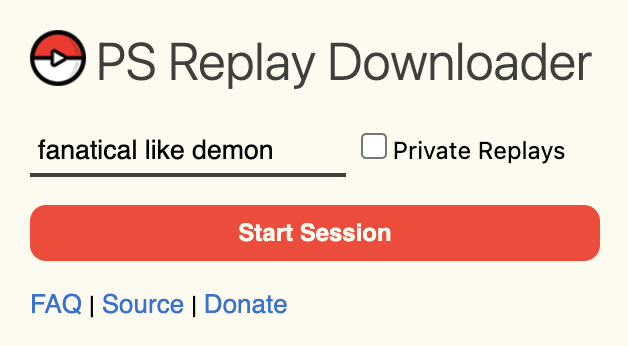
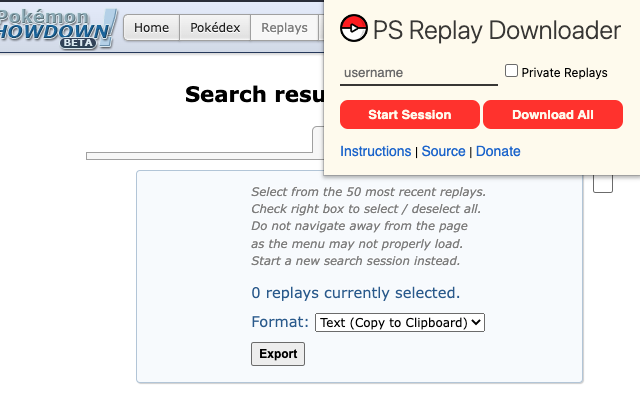
Add feature for downloading all replays in one-click

diff --git a/popup.js b/popup.js
@@ -1,22 +1,70 @@
 const PS_REPLAY_SEARCH_BASE_URL =
     "https://replay.pokemonshowdown.com/search/?user=";
-// Identifer for PsReplayDownloader-specific storage keys
+const PS_REPLAY_SEARCH_API_URL =
+    "https://replay.pokemonshowdown.com/search.json?user=";
+const PS_REPLAY_BASE_URL = "https://replay.pokemonshowdown.com/";
+const ACCESS_DENIED_ERR = "ERROR: access denied";
 
 // Open replay search session for user given username and private replay option
 function startSession() {
-    // Get username field input
     const username = document.getElementById("usernameField").value;
-    // Check if replays requested are private
     const privateOption = document.getElementById("privateCheckbox").checked;
-    // Open session in new tab
     const replayUrl = PS_REPLAY_SEARCH_BASE_URL + username;
+    // Open session in new tab
     window.open(privateOption ? replayUrl + "&private" : replayUrl);
+}
+
+async function getAllReplays() {
+    const username = document.getElementById("usernameField").value;
+    const privateOption = document.getElementById("privateCheckbox").checked;
+    const replayUrl = PS_REPLAY_SEARCH_API_URL + username;
+    // Make GET request to replay server
+    let getReplaysResponse = await fetch(
+        privateOption ? replayUrl + "&private" : replayUrl
+    );
+    if (getReplaysResponse.ok) {
+        // Response can be either object or string unfortunately
+        let replaysJson = await getReplaysResponse.json();
+        // Handle error for private replay permissions
+        if (replaysJson == ACCESS_DENIED_ERR) {
+            alert(`Log in to access private replays for '${username}'.`);
+        } else if (replaysJson === undefined || replaysJson.length == 0) {
+            alert(`Cannot find replays for '${username}.`);
+        } else {
+            console.log(`Exporting ${replaysJson.length} replays...`);
+            exportReplaysToCsv(replaysJson, privateOption);
+        }
+    } else {
+        alert(
+            "Network Error, please try again later." + getReplaysResponse.status
+        );
+    }
+}
+
+function exportReplaysToCsv(replaysJson, privateOption) {
+    console.log(replaysJson);
+    var replayList = [["replay_url"]];
+    replaysJson.forEach(function (replay) {
+        replayList.push([
+            privateOption
+                ? PS_REPLAY_BASE_URL + replay.id + "pw"
+                : PS_REPLAY_BASE_URL + replay.id,
+        ]);
+    });
+    let csvContent =
+        "data:text/csv;charset=utf-8," +
+        replayList.map((e) => e.join(",")).join("\n");
+    const encodedUri = encodeURI(csvContent);
+    window.open(encodedUri);
 }
 
 function initListeners() {
     document
         .getElementById("startSessionBtn")
         .addEventListener("click", startSession);
+    document
+        .getElementById("downloadAllBtn")
+        .addEventListener("click", getAllReplays);
 }
 
 initListeners();

diff --git a/content.js b/content.js
@@ -52,7 +52,7 @@ function addExportMenu() {
             <p style="margin-top:10px;margin-bottom:2px;font-size:80%;font-style:italic;color:#888888">Select from the 50 most recent replays.</p>
             <p style="margin-top:2px;margin-bottom:2px;font-size:80%;font-style:italic;color:#888888">Check right box to select / deselect all.</p>
             <p style="margin-top:2px;margin-bottom:2px;font-size:80%;font-style:italic;color:#888888">Do not navigate away from the page</p>
-            <p style="margin-top:2px;margin-bottom:2px;font-size:80%;font-style:italic;color:#888888">as the menu may not load.</p>
+            <p style="margin-top:2px;margin-bottom:2px;font-size:80%;font-style:italic;color:#888888">as the menu may not properly load.</p>
             <p style="margin-top:2px;margin-bottom:4px;font-size:80%;font-style:italic;color:#888888">Start a new search session instead.</p>
             <p style="margin-bottom:10px;"><span id="numReplays">0</span> replays currently selected.</p>        
             <div style="margin-bottom:10px;">
@@ -70,12 +70,16 @@ function addExportMenu() {
 
     // Add menu to top of replays
     const replayList = document.querySelector("ul.linklist");
-    replayList.prepend(exportMenu);
+    if (replayList != null) {
+        replayList.prepend(exportMenu);
+    }
 
     // Add select all checkbox
     const replayCheckbox = createCheckbox();
     replayCheckbox.setAttribute("id", "selectAllCheckbox");
-    replayList.prepend(replayCheckbox);
+    if (replayList != null) {
+        replayList.prepend(replayCheckbox);
+    }
 }
 
 function addCheckboxes() {

diff --git a/popup.html b/popup.html
@@ -18,12 +18,14 @@
                 <input type="checkbox" id="privateCheckbox">Private Replays</input>
             </div>
         </div>
-        <button id="startSessionBtn">Start Session</button>
+        <div class="buttonMenu">
+            <button id="startSessionBtn">Start Session</button>
+            <button id="downloadAllBtn">Download All</button>
+        </div>
         <p id="footerMenu">
             <a class="footerLink" href="https://github.com/Statsugiri/PsReplayDownloader#Instructions" target=_blank>Instructions</a> | 
             <a class="footerLink" href="https://github.com/Statsugiri/PsReplayDownloader" target=_blank>Source</a> |
             <a class="footerLink" href="https://ko-fi.com/statsugiri" target=_blank>Donate</a>
-
             </a>
         </p>
 

diff --git a/popup.css b/popup.css
@@ -31,8 +31,13 @@ input[type="text"] {
     font-family: "Open Sans", sans-serif;
 }
 
+#buttonMenu {
+    width: 100%;
+}
+
 button {
     background-color: #ff392f;
+    display: inline-block;
     font-size: 13px;
     font-family: "Open Sans", sans-serif;
     font-weight: 600;
@@ -40,7 +45,7 @@ button {
     padding: 7px;
     border: 0;
     margin-top: 14px;
-    width: 100%;
+    width: 49%;
     border-radius: 8px;
 }
 

diff --git a/README.md b/README.md
@@ -15,20 +15,22 @@ Currently, it is compatible with Chromium-based browsers. There are no plans to 
 
 ## Instructions
 
+### Start a Download Session (Manual)
+
 1. Open the Chrome Extension. Enter the username and toggle whether private replays are desired. Click `Start Session` to open the PS replay search menu.
 
     <img src="./images/readme/readme_1.png " width=50% height=50%>
 
-2. Select the replays to download by toggling the checkbox beside the replay. *If the checkboxes do not appear, please refresh the webpage or try searching your username again in the extension.*
+2. Select the replays to download by toggling the checkbox beside the replay. Toggle the checkbox to select / deselect all replays. *If the checkboxes do not appear, please refresh the webpage or try searching your username again in the extension.*
 
     <img src="./images/readme/readme_2.png " width=50% height=50%>
 
-    Toggle the checkbox beside the menu to select / deselect all.
-
-    <img src="./images/readme/readme_3.png " width=50% height=50%>
-
 3. Choose the export format from the dropdown menu. Click export when ready.
 4. If you enjoy the extension, please consider donating to the [Statsugiri Kofi](https://ko-fi.com/statsugiri) to support future work on Pokémon data projects.
+
+### Download All Replays (One-Click)
+
+1. Open the Chrome Extension. Enter the username and toggle whether private replays are desired. Click `Download All` to initiate a CSV download of all replays. *Please ensure you are logged in to the correct account before downloading private replays."
 
 ## FAQ
 
